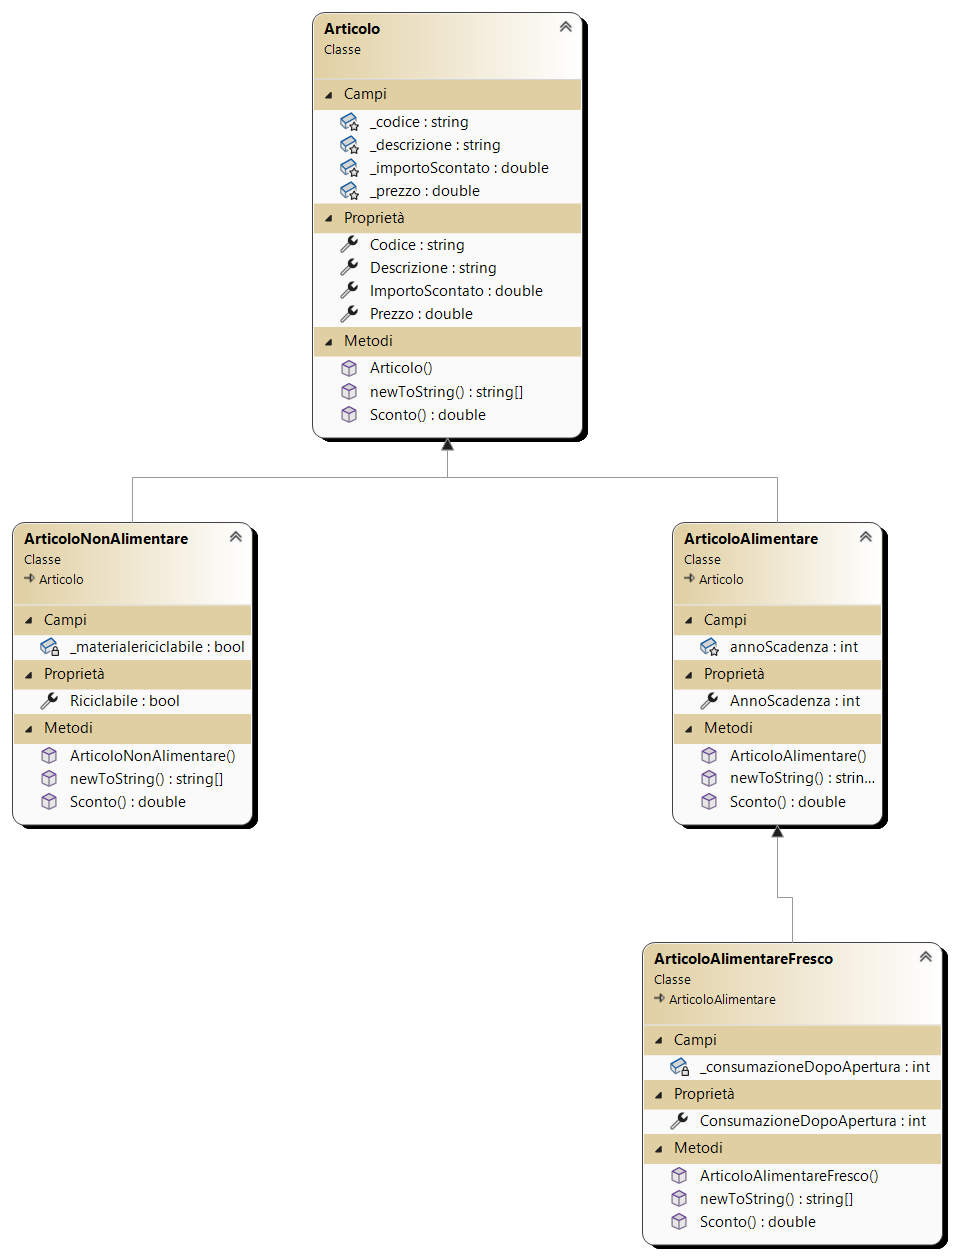
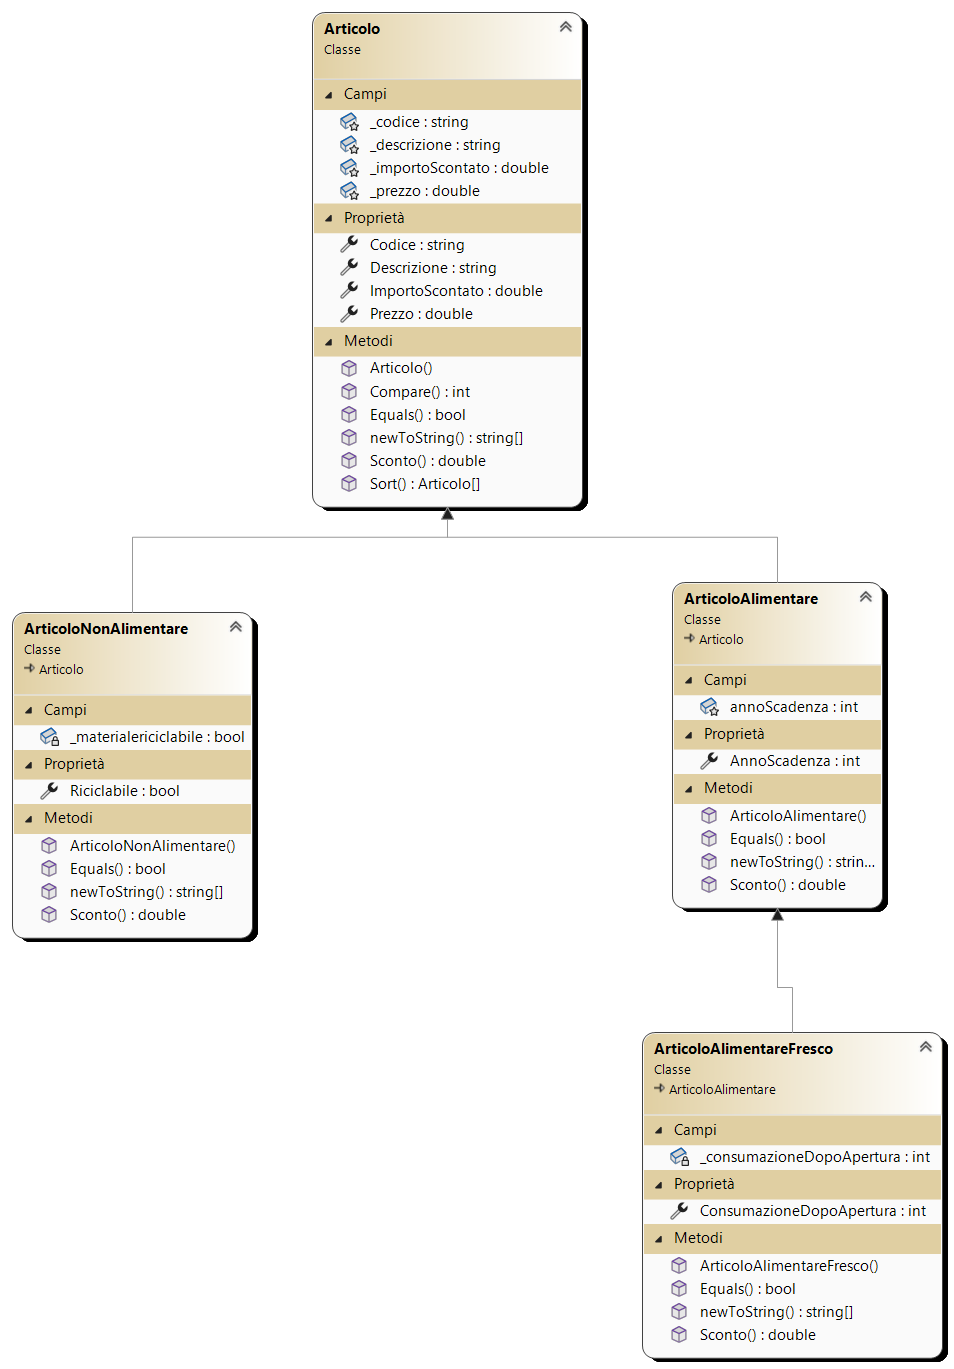
<aggiunti metodi Compare, Sort e Equals per tutte le classi. Modifica UML>

diff --git a/Classe articoli/Articolo.cs b/Classe articoli/Articolo.cs
@@ -27,6 +27,20 @@ namespace Classe_articoli
 			Prezzo = prezzo;
 			ImportoScontato = prezzo;
 		}
+		public override bool Equals(object obj)
+		{
+			if (obj == null || GetType() != obj.GetType())
+			{
+				return false;
+			}
+			Articolo other = (Articolo)obj;
+
+			if (Codice == other.Codice && Descrizione == other.Descrizione && Prezzo == other.Prezzo)
+			{
+				return true;
+			}
+			return false;
+		}
 
 		public virtual double Sconto(bool cartaFedelta)
 		{
@@ -36,10 +50,51 @@ namespace Classe_articoli
 				ImportoScontato = Prezzo;
 			return ImportoScontato;
 		}
+		public int Compare(Articolo other)
+		{
+			int ret = 0;
 
+			if (Prezzo > other.Prezzo)
+			{
+				ret = 1;
+			}
+			else if (Prezzo < other.Prezzo)
+			{
+				ret = -1;
+			}
+
+			return ret;
+		}
 		public virtual string[] newToString()
 		{
 			return new string[] { Codice, Descrizione, Prezzo.ToString("F") + "€", "-", "-", "-", ImportoScontato.ToString("F") + "€" };
+		}
+
+		public static Articolo[] Sort(Articolo[] toSort, bool sYn)
+		{
+			if (sYn)
+			{
+				int i = 0, j = 0;
+				Articolo temp = null;
+				while (toSort[i + 1] != null)
+				{
+					while (toSort[j + 1] != null)
+					{
+						if (toSort[j + 1].Compare(toSort[j]) == 1)
+						{
+							temp = toSort[j];
+							toSort[j] = toSort[j + 1];
+							toSort[j + 1] = temp;
+						}
+						j++;
+					}
+					j = 0;
+					i++;
+				}
+				return toSort;
+			}
+			else
+				return toSort;
 		}
 	}
 }

diff --git a/Classe articoli/ArticoloAlimentareFresco.cs b/Classe articoli/ArticoloAlimentareFresco.cs
@@ -27,8 +27,21 @@ namespace Classe_articoli
                     MessageBox.Show("Consumazione dopo apertura non valida", "Errore!", MessageBoxButtons.OK, MessageBoxIcon.Error);
             }
         }
+        public override bool Equals(object obj)
+        {
+	        if (obj == null || GetType() != obj.GetType())
+	        {
+		        return false;
+	        }
+	        ArticoloAlimentareFresco other = (ArticoloAlimentareFresco)obj;
 
-        public override double Sconto(bool cartaFedelta)
+	        if (base.Equals(other) && ConsumazioneDopoApertura == other.ConsumazioneDopoApertura)
+	        {
+		        return true;
+	        }
+	        return false;
+        }
+		public override double Sconto(bool cartaFedelta)
         {
             if (cartaFedelta && ConsumazioneDopoApertura > 0)
                 ImportoScontato = Prezzo * 0.95 - (0.1 / ConsumazioneDopoApertura);

diff --git a/Classe articoli/ArticoloAlimentare.cs b/Classe articoli/ArticoloAlimentare.cs
@@ -26,8 +26,21 @@ namespace Classe_articoli
                 annoScadenza = value;
             }
         }
+        public override bool Equals(object obj)
+        {
+	        if (obj == null || GetType() != obj.GetType())
+	        {
+		        return false;
+	        }
+	        ArticoloAlimentare other = (ArticoloAlimentare)obj;
 
-        public override double Sconto(bool cartaFedelta)
+	        if (base.Equals(other) && AnnoScadenza == other.AnnoScadenza)
+	        {
+		        return true;
+	        }
+	        return false;
+        }
+		public override double Sconto(bool cartaFedelta)
         {
             if (cartaFedelta && AnnoScadenza == DateTime.Now.Year)
                 ImportoScontato = Prezzo * 0.75;

diff --git a/Classe articoli/FormAdd.cs b/Classe articoli/FormAdd.cs
@@ -7,6 +7,7 @@ using System.Diagnostics.Eventing.Reader;
 using System.Drawing;
 using System.Linq;
 using System.Text;
+using System.Threading;
 using System.Threading.Tasks;
 using System.Windows.Forms;
 
@@ -109,6 +110,16 @@ namespace Classe_articoli
 				sum += sconti[i];
 			MessageBox.Show("Importo totale: " + sum.ToString("F") + "€");
 			buttonCalc.Enabled = false;
+			Thread.Sleep(1000);
+			var sort = MessageBox.Show("Vuoi ordinare lo scontrino per ordine di prezzo?", "Ordinamento",
+				MessageBoxButtons.YesNo, MessageBoxIcon.Question);
+			if (sort == DialogResult.Yes)
+			{
+				Articolo.Sort(articoli, true);
+				Visualizza();
+			}
+			else
+				Articolo.Sort(articoli, false);
 		}
 
 		#region Funzioni

diff --git a/Classe articoli/ArticoloNonAlimentare.cs b/Classe articoli/ArticoloNonAlimentare.cs
@@ -16,7 +16,21 @@ namespace Classe_articoli
         }
 
         public bool Riciclabile { get; set; }
-        public override double Sconto(bool cartaFedelta)
+        public override bool Equals(object obj)
+        {
+	        if (obj == null || GetType() != obj.GetType())
+	        {
+		        return false;
+	        }
+	        ArticoloNonAlimentare other = (ArticoloNonAlimentare)obj;
+
+	        if (base.Equals(other) && Riciclabile == other.Riciclabile)
+	        {
+		        return true;
+	        }
+	        return false;
+        }
+		public override double Sconto(bool cartaFedelta)
         {
             if (cartaFedelta && Riciclabile)
                 ImportoScontato = Prezzo * 0.85;
